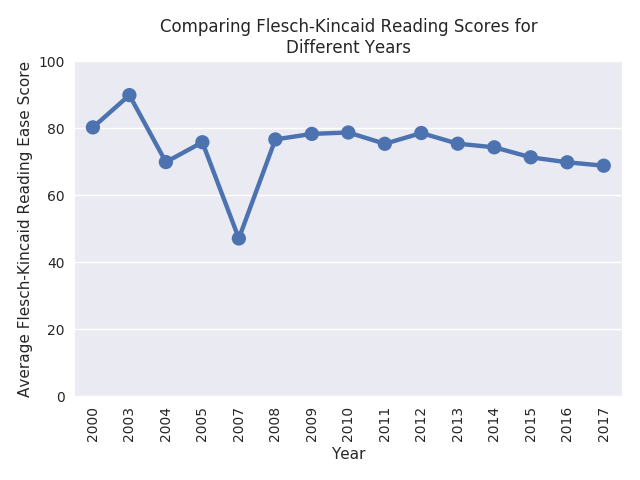
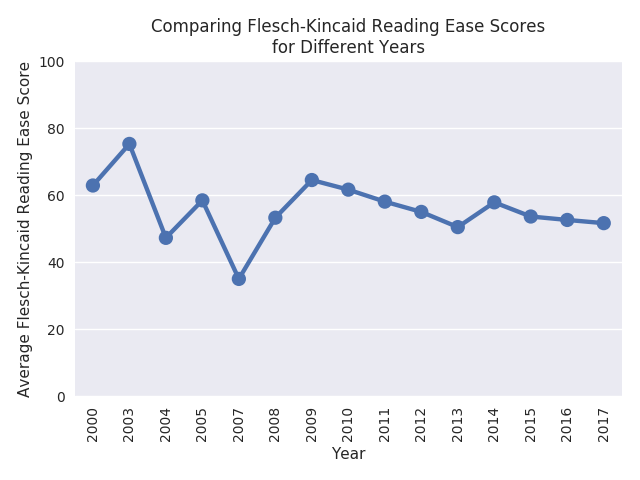
Recalculated scores

diff --git a/analyze.py b/analyze.py
@@ -28,7 +28,44 @@ NEWS_DATA = './processed_data/news/articles.pkl'
 # Things to not count as words and/or syllables
 WORD_EXCEPTIONS = ['', ',', '.', '!', '?', ':', ';', '[', ']', '(', ')', '$', '@', '%', '\'', '"', '`', '”', '“']
 
-def num_syllables(text, debug):
+#
+# The dictionaries for counting syllables
+#
+CMUDICT = nltk.corpus.cmudict.dict()
+PYPHENDICT = pyphen.Pyphen(lang='en_US')
+
+def syllables_in_word(word):
+    '''
+    Returns the number of syllables in a word. If the word is in nltk's cmudict dictionary. This dictionary contains
+    pronunciation guide strings for words in the Carnegie Mellon University dictionary. E.g.: the entry for the word
+    'syllable' is ['S', 'IH1', 'L', 'AH0', 'B', 'AH0', 'L']. The vowels that are stressed in pronunctiation (which
+    correspond to syllables in a word with very few exceptions, if any), are denoted by having a digit at the end of
+    the entry (eg, for 'syllable', the stresed vowel sounds are 'IH1', 'AH0' and 'AH0'). The number of syllabels is
+    then equal to the number of strings in the cmudict entry for a word that end in digits.
+
+    If a word is not present in the cmudict, then we resort to pyphen, which hyphenates the word. It is then split on
+    the hyphen character, and the length of the resulting list is used as an estimate of the number of syllables in
+    the word.
+
+    Params:
+    - word (str): The word for which we want to count syllables
+
+    Returns:
+    - num_syllables (int): The number of syllables in the word
+    '''
+    word = word.lower()
+    if word in CMUDICT:
+        cmudict_entry = CMUDICT[word][0]
+        cmudict_entry = map(lambda part : 1 if part[-1].isdigit() else 0, cmudict_entry)
+        cmudict_entry = list(cmudict_entry)
+        num_syllables = sum(cmudict_entry)
+    else:
+        syllable_list = PYPHENDICT.inserted(word).split('-')
+        num_syllables = len(syllable_list)
+    return num_syllables
+# End of syllables_in_word()
+
+def num_syllables(text):
     '''
     Finds the number of syllables in a given text.
 
@@ -38,20 +75,13 @@ def num_syllables(text, debug):
     Returns:
     - num_syllables (int): The number of syllables in the given text
     '''
-    dictionary = pyphen.Pyphen(lang='en_US')
-    syllables = list()
-    for word in words:
-        syllable_list = dictionary.inserted(word).split('-')
-        syllables.extend(syllable_list)
-    syllables = [syllable for syllable in syllables if len(syllable) > 0]
-    if debug:
-        print('Syllables: ', syllables)
-    # print('Syllables: ', syllables)
-    # print('Num syllables: ', len(syllables))
-    return len(syllables)
+    num_syllables = 0
+    for word in text:
+        num_syllables += syllables_in_word(word)
+    return num_syllables
 # End of num_syllables()
 
-def num_words(text, debug):
+def num_words(text):
     '''
     Finds the number of words and syllables in a given text.
 
@@ -65,14 +95,11 @@ def num_words(text, debug):
     words = nltk.tokenize.word_tokenize(text)
     words = filter(lambda word : word not in WORD_EXCEPTIONS, words)
     words = list(words)
-    if debug:
-        print('Words: ', words)
-    syllables = num_syllables(words, debug)
-    # print('Num words: ', len(words))
+    syllables = num_syllables(words)
     return len(words), syllables
 # End of num_words()
 
-def num_sentences(text, debug):
+def num_sentences(text):
     '''
     Finds the number of sentences in a given text.
 
@@ -83,15 +110,13 @@ def num_sentences(text, debug):
     - num_sentences (int): The number of sentences in the given text
     '''
     sentences = nltk.tokenize.sent_tokenize(text)
-    if debug:
-        print('Sentences: ', sentences)
-    # print('Num sentences: ', len(sentences))
     return len(sentences)
 # End of num_sentences()
 
-def readability_score(text, debug=False):
+def readability_score(text):
     '''
-    Calculates the readability score for the given text.
+    Calculates the Flesch-Kincaid Reading Easy Score for the given text. If the readability score is off the
+    Flesch-Kincaid Reading Ease Score scale (< 0 or > 100), returns -1.
 
     Params:
     - text (str): The text to be analyzed
@@ -99,14 +124,15 @@ def readability_score(text, debug=False):
     Returns:
     - score (float): The readability score for the text
     '''
-    # syllables = num_syllables(text)
-    words, syllables = num_words(text, debug)
-    sentences = num_sentences(text, debug)
-    if sentences == 0 or words == 0:
+    words, syllables = num_words(text)
+    sentences = num_sentences(text)
+    if sentences == 0 or words == 0: # Prevent division by 0
         return -1
     score = 206.835
     score -= 1.015 * (words / sentences)
     score -= 84.6 * (syllables / words)
+    if score < 0 or score > 100:
+        return -1
     return score
 # End of readability_score()
 
@@ -140,16 +166,17 @@ def process_news_data():
     news_data = read_news_data()
     print('=====Processing News Data=====')
     scores = list()
+    num_errors = 0
     for index, content in enumerate(news_data['content']):
         score = readability_score(content)
-        if score <= 0 or score >= 100:
-            print("=====\nScore: %f\nContent: %s\n=====" % (score, content))
-            readability_score(content, True)
-            exit()
-        scores.append(readability_score(content))
+        if score == -1:
+            num_errors += 1
+        scores.append(score)
         if index % 1000 == 0:
             print('Processed %d articles' % index)
+    print("Articles with a faulty score: %d/%d" % (num_errors, len(scores)))
     news_data['score'] = scores
+    news_data = news_data.loc[news_data['score'] > -1] # Drop all rows where the score is wrong
     news_data = news_data.drop(columns=['content'])
     print(news_data.head())
     save_processed_data(news_data, NEWS_DATA)
